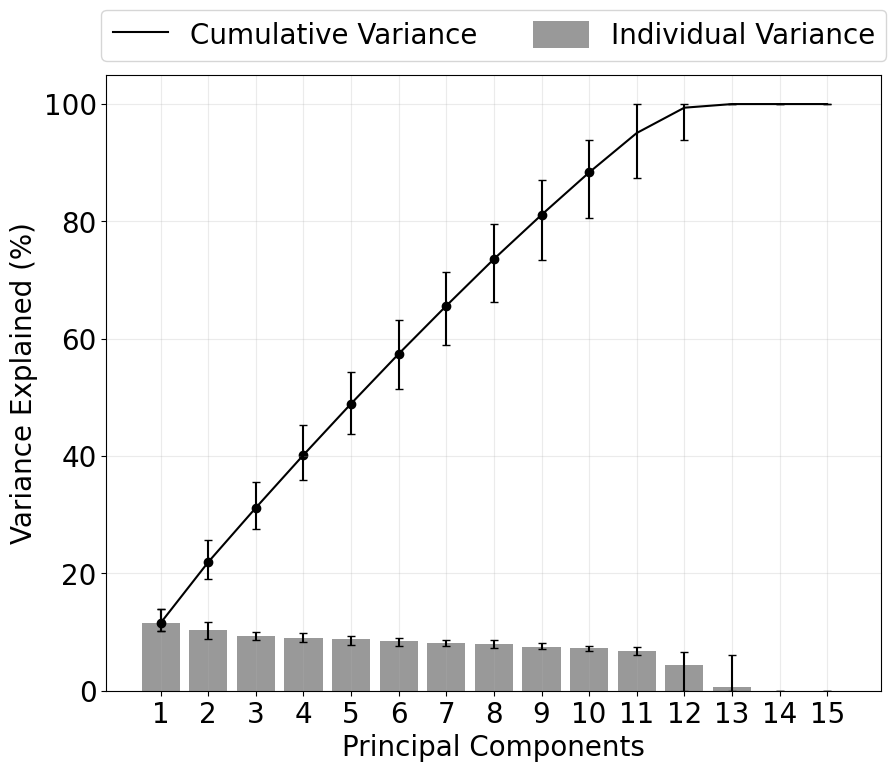
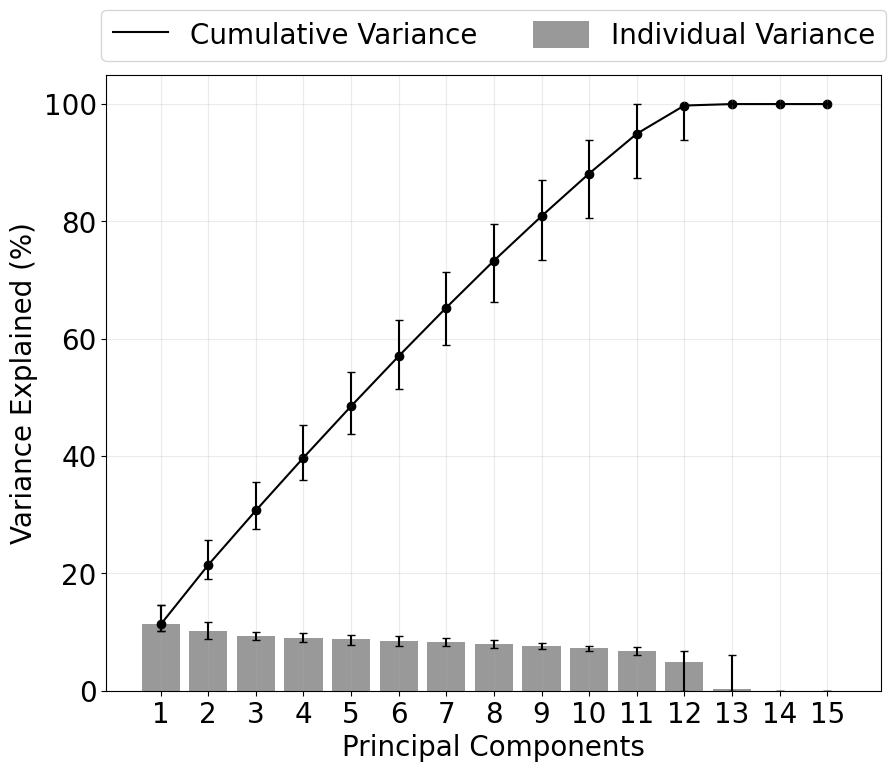
Code

diff --git a/correlation_flows.py b/correlation_flows.py
@@ -24,7 +24,7 @@ batch_size = 32
 
 
 
-all_properties = pd.read_csv("Galaxy Properties/Eagle Properties/all_properties_transitional.csv")
+all_properties = pd.read_csv("Galaxy Properties/Eagle Properties/all_properties_spirals.csv")
 print(all_properties)
 
 
@@ -170,11 +170,12 @@ fig, axs = plt.subplots(2, 1, figsize=(35, 15))
 # run_order = [2, 3, 10, 11, 20, 22, 24] + [1, 4, 5, 6, 7, 8, 9, 12, 13, 14, 15, 16, 17, 18, 19, 21, 23] + [25]
 # run_order = [13, 21] + [1, 2, 3, 4, 5, 7, 8, 10, 11, 12, 14, 15, 16, 18, 19, 20, 22, 23, 24, 25] + [6, 9, 17]
 
-# spirals (35)
+# spirals (30, 35)
+run_order = [3, 4, 5, 17, 18] + [1, 2, 6, 7, 9, 10, 11, 12, 13, 14, 15, 16, 19, 20, 21, 22, 23, 24, 25] + [8]
 # run_order = [1, 2, 3, 4, 5, 6, 7, 8, 9, 10, 11, 12, 13, 14, 15, 16, 17, 18, 19, 21, 22, 23, 24, 25] + [20]
 
-# transitional (30. 35)
-run_order = [8] + [10, 12] + [2, 4, 5, 6, 11, 13, 14, 18, 21, 22, 23] + [1, 7, 15, 16, 17, 19, 20, 24, 25] + [3, 9]
+# transitional (30, 35)
+# run_order = [8] + [10, 12] + [2, 4, 5, 6, 11, 13, 14, 18, 21, 22, 23] + [1, 7, 15, 16, 17, 19, 20, 24, 25] + [3, 9]
 # run_order = [3, 7, 14, 20, 22] + [2, 6, 8, 9, 11, 12, 13, 16, 17, 19, 23, 25] + [1, 4, 5, 10, 15, 18, 21, 24]
 
 # ellipticals (30, 35)
@@ -195,7 +196,7 @@ for feature in range(0, 13):
     for run in run_order:
 
         # extracted_features = np.load("Variational Eagle/Extracted Features/Normalising Flow/planar_new_latent_" + str(encoding_dim) + "_beta_" + beta_name + "_epoch_" + str(epochs) + "_flows_" + str(n_flows) + "_" + str(run) + "_default.npy")[0]
-        extracted_features = np.load("Variational Eagle/Extracted Features/Transitional/planar_new_latent_" + str(encoding_dim) + "_beta_" + beta_name + "_epoch_" + str(epochs) + "_flows_" + str(n_flows) + "_" + str(run) + "_default_transformed.npy")
+        extracted_features = np.load("Variational Eagle/Extracted Features/Spirals/planar_new_latent_" + str(encoding_dim) + "_beta_" + beta_name + "_epoch_" + str(epochs) + "_flows_" + str(n_flows) + "_" + str(run) + "_default_transformed.npy")
         encoding_dim = extracted_features.shape[1]
 
         # perform pca on the extracted features
@@ -302,7 +303,7 @@ for feature in range(0, 13):
     for run in run_order:
 
         # extracted_features = np.load("Variational Eagle/Extracted Features/Normalising Flow/planar_new_latent_" + str(encoding_dim) + "_beta_" + beta_name + "_epoch_" + str(epochs) + "_flows_" + str(n_flows) + "_" + str(run) + "_default.npy")[0]
-        extracted_features = np.load("Variational Eagle/Extracted Features/Transitional/planar_new_latent_" + str(encoding_dim) + "_beta_" + beta_name + "_epoch_" + str(epochs) + "_flows_" + str(n_flows) + "_" + str(run) + "_default_transformed.npy")
+        extracted_features = np.load("Variational Eagle/Extracted Features/Spirals/planar_new_latent_" + str(encoding_dim) + "_beta_" + beta_name + "_epoch_" + str(epochs) + "_flows_" + str(n_flows) + "_" + str(run) + "_default_transformed.npy")
         encoding_dim = extracted_features.shape[1]
 
         # perform pca on the extracted features
@@ -408,11 +409,12 @@ wrap_labels(axs[1], 10)
 # cols = [7, 24]
 # cols = [2, 22]
 
-# spirals (35)
+# spirals (30, 35)
+cols = [5, 24]
 # cols = [24]
 
 # transitional (30, 35)
-cols = [1, 3, 14, 23]
+# cols = [1, 3, 14, 23]
 # cols = [5, 17]
 
 # ellipticals (35)
@@ -429,7 +431,7 @@ for col in cols:
 
 
 
-plt.savefig("Variational Eagle/Correlation Plots/Transitional/PCA/latent_" + str(encoding_dim) + "_correlation", bbox_inches='tight')
+plt.savefig("Variational Eagle/Correlation Plots/Spirals/PCA/latent_" + str(encoding_dim) + "_correlation", bbox_inches='tight')
 plt.show()
 
 

diff --git a/pca.py b/pca.py
@@ -130,7 +130,7 @@ for run in range(1, 26):
 # for run in range(1, 11):
 
     try:
-        extracted_features = np.load("Variational Eagle/Extracted Features/Transitional/planar_new_latent_" + str(encoding_dim) + "_beta_" + beta_name + "_epoch_750_flows_" + str(n_flows) + "_" + str(run) + "_default_transformed.npy")
+        extracted_features = np.load("Variational Eagle/Extracted Features/Spirals/planar_new_latent_" + str(encoding_dim) + "_beta_" + beta_name + "_epoch_750_flows_" + str(n_flows) + "_" + str(run) + "_default_transformed.npy")
 
         pca = PCA(n_components=0.999, svd_solver="full").fit(extracted_features)
 
@@ -168,7 +168,7 @@ for components in range(0, 15):
     for run in range(1, 26):
     # for run in range(1, 11):
 
-        extracted_features = np.load("Variational Eagle/Extracted Features/Transitional/planar_new_latent_" + str(encoding_dim) + "_beta_" + beta_name + "_epoch_750_flows_" + str(n_flows) + "_" + str(run) + "_default_transformed.npy")
+        extracted_features = np.load("Variational Eagle/Extracted Features/Spirals/planar_new_latent_" + str(encoding_dim) + "_beta_" + beta_name + "_epoch_750_flows_" + str(n_flows) + "_" + str(run) + "_default_transformed.npy")
 
         pca = PCA(n_components=encoding_dim, svd_solver="full").fit(extracted_features)
         variance_explained = pca.explained_variance_ratio_
@@ -271,7 +271,7 @@ plt.legend(handles=custom_legend, handleheight=1.1, loc='lower center', bbox_to_
 print(med_accumulation)
 print(med_specific)
 
-plt.savefig("Variational Eagle/Plots/variance_explained_mean_" + str(encoding_dim) + "_transitional", bbox_inches="tight")
+plt.savefig("Variational Eagle/Plots/variance_explained_mean_" + str(encoding_dim) + "_spirals", bbox_inches="tight")
 # plt.savefig("Variational Eagle/Plots/variance_explained_mean.pdf", bbox_inches="tight")
 plt.show()
 
